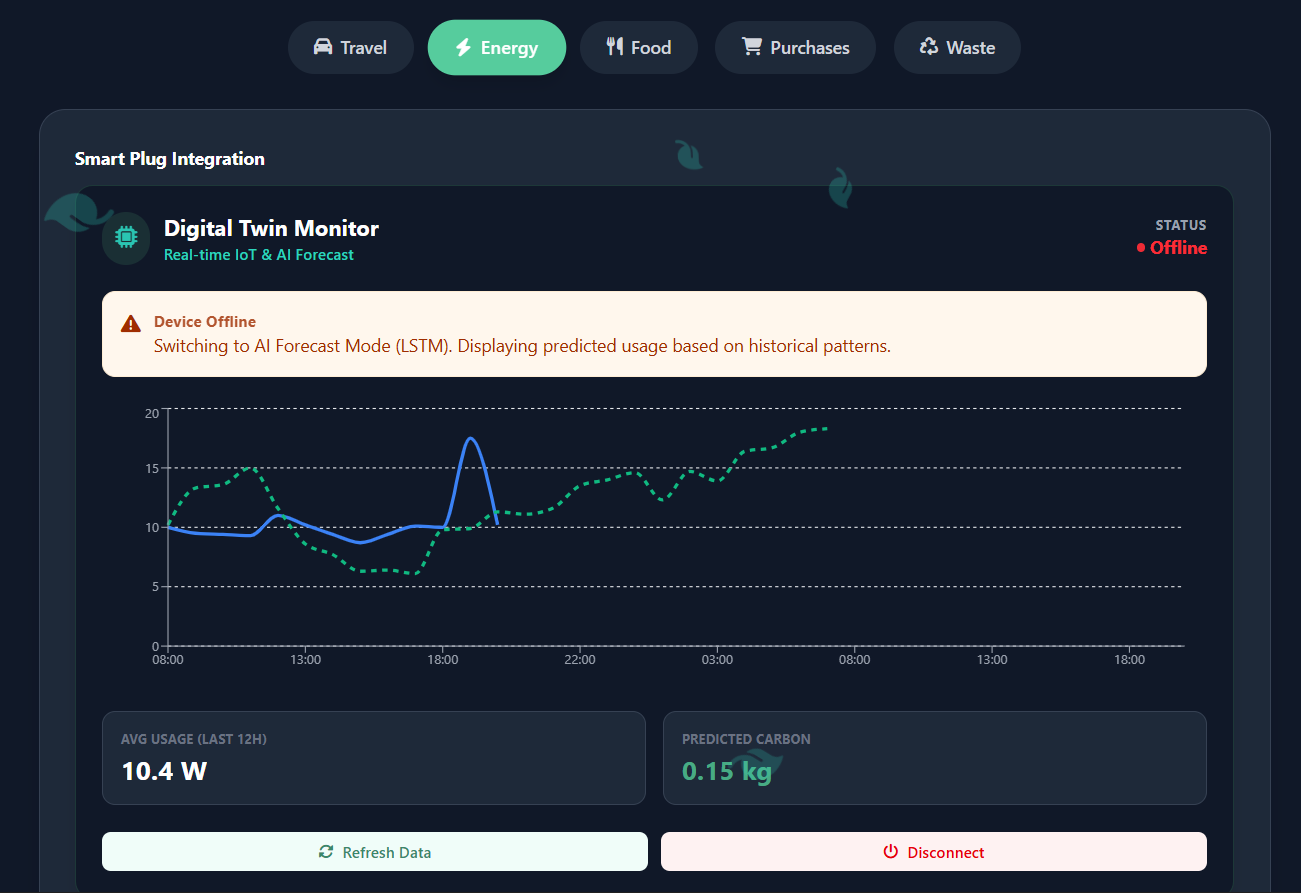
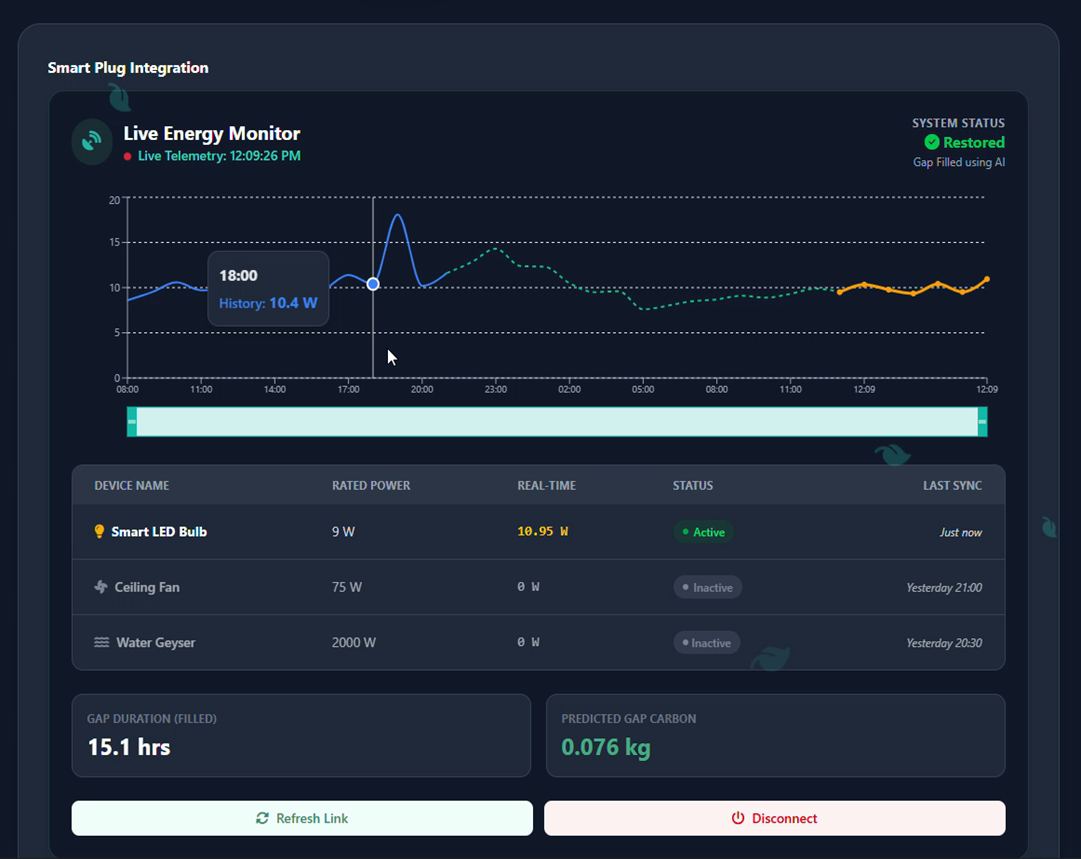
feat: update README with detailed project overview and features

diff --git a/README.md b/README.md
@@ -1,1 +1,136 @@
-# EcoTrack
+# EcoTrack: Intelligent Carbon Monitoring Ecosystem
+
+## 📖 Abstract
+
+In the fight against climate change, accurate data is the first step toward actionable reduction. **Existing carbon trackers rely heavily on manual entry**, which is prone to human error and lacks verification. 
+
+**EcoTrack** solves this by deploying a **multi-modal ecosystem** that bridges the physical and digital worlds. By combining **Hardware (IoT)** for real-time sensing, **Software (Web/App)** for seamless interaction, and **AI (Prediction/Vision)** for intelligent automation, EcoTrack provides a comprehensive, verified, and automated carbon footprint monitoring solution.
+
+---
+
+## 🚀 Key Novelty Features
+
+### 1. Precision IoT Monitoring (Hardware Layer)
+Unlike standard energy monitors that estimate usage, our **ESP32-based Smart Meter** utilizes **ZMPT101B (Voltage)** and **SCT-013 (Current)** sensors to calculate **True Power** ($P=VI\cos\theta$).
+- **Real-Time Data:** Streams millisecond-level energy data to the cloud.
+- **Digital Twin Dashboard:** Maintains a virtual state of the device, handling offline scenarios and syncing data once connectivity is restored.
+
+### 2. AI-Driven Forecasting (LSTM)
+We move beyond simple tracking to **predictive analytics**.
+- **Model:** Long Short-Term Memory (LSTM) Recurrent Neural Network.
+- **Function:** Analyzes historical time-series data to predict future energy consumption, allowing users to take proactive measures before limits are exceeded.
+
+### 3. Accurate Emission Calculation (Random Forest)
+Static emission factors are often outdated. EcoTrack employs a **Hybrid ML Model (RandomForestRegressor)** tailored to dynamic usage patterns.
+- **Training Data:** Trained on over **15,000 synthetic data points**.
+- **Result:** Replaces static coefficients with dynamic predictions for highly accurate carbon footprint estimation.
+
+### 4. Zero-Friction Logging (n8n + Gemini)
+Manual logging is a barrier to adoption. We removed it using a **WhatsApp Chatbot** powered by **n8n orchestration**.
+- **📸 Vision:** Users send photos of electricity bills or waste bins → **Google Gemini Vision** extracts data automatically.
+- **🗣 Voice:** Users send voice notes describing their commute → **OpenAI Whisper** transcribes and processes the activity.
+- **Integration:** Data is automatically cleaned and synced to the **Supabase** database.
+
+### 5. Geospatial Intelligence
+- **Community Impact:** Visualizes carbon footprints on a **Folium/Geopandas Heatmap**, allowing communities to compare benchmarks and identify high-impact zones.
+
+### 6. Hardware-Verified Gamification
+- **Cheat-Proof System:** Badges and XP are awarded strictly based on **verified IoT data** rather than self-reported claims, ensuring the integrity of the leaderboard and reward system.
+
+---
+
+## 🏗 System Architecture
+
+![System Architecture](./docs/diagram.png)
+
+**Data Flow:**
+1.  **Sensors (ESP32)** measure physical parameters (Voltage, Current).
+2.  **API (Django)** receives verified payloads.
+3.  **ML Engine** processes timeseries for forecasting and anomaly detection.
+4.  **Dashboard (React)** visualizes real-time insights and community stats.
+
+---
+
+## 💻 Tech Stack
+
+### Frontend
+- **Framework:** React.js
+- **Styling:** Tailwind CSS, Framer Motion (Animations)
+- **Visualization:** Recharts (Charts), Folium (Maps)
+
+### Backend & AI
+- **API:** Django REST Framework (DRF)
+- **Database:** PostgreSQL / Supabase
+- **AI/ML:** Python, Pandas, Scikit-Learn (Random Forest), TensorFlow/Keras (LSTM), Google Gemini API (Vision)
+- **Orchestration:** n8n (Workflow Automation)
+
+### Hardware (IoT)
+- **Microcontroller:** ESP32 (C/C++ Firmware)
+- **Sensors:** ZMPT101B (Voltage), SCT-013 (Current)
+- **Protocol:** MQTT / HTTPs
+
+### DevOps
+- **Containerization:** Docker
+- **Version Control:** Git
+
+---
+
+## 🛠 Installation & Setup
+
+### Prerequisites
+- Node.js & npm
+- Python 3.9+
+- PostgreSQL
+- ESP32 Development Board (for hardware module)
+
+### 1. Clone the Repository
+```bash
+git clone https://github.com/CoderSanket24/EcoTrack.git
+cd EcoTrack
+```
+
+### 2. Backend Setup
+```bash
+cd backend
+pip install -r requirements.txt
+python manage.py migrate
+python manage.py runserver
+```
+
+### 3. Frontend Setup
+```bash
+cd frontend
+npm install
+npm run dev
+```
+
+### 4. Hardware Setup
+1.  Connect the **ZMPT101B** and **SCT-013** sensors to the ESP32 GPIO pins as per the circuit diagram.
+2.  Configure your WiFi credentials in `firmware/config.h`.
+3.  Flash the firmware using Arduino IDE or PlatformIO.
+
+---
+
+## 📱 Screenshots
+
+| Live Energy Dashboard | WhatsApp Chatbot Flow |
+|:---:|:---:|
+| ![Dashboard](./docs/dashboard_placeholder.png) | ![Chatbot](./docs/chatbot_placeholder.png) |
+
+| Community Heatmap | Daily Engagement |
+|:---:|:---:|
+| ![Heatmap](./docs/heatmap_placeholder.png) | ![Badges](./docs/image.png) |
+
+| Personalised Dashboard | Actionable Insights |
+|:---:|:---:|
+| ![Personalised Dashboard](./docs/personalised_dashboard_placeholder.png) | ![Insights](./docs/insights_placeholder.png) |
+
+| Sustainability Challenges | Community Leaderboard |
+|:---:|:---:|
+| ![Challenges](./docs/challenges_placeholder.png) | ![Community](./docs/community_placeholder.png) |
+
+
+---
+
+## 📄 License
+This project is open-source and available under the **MIT License**.
